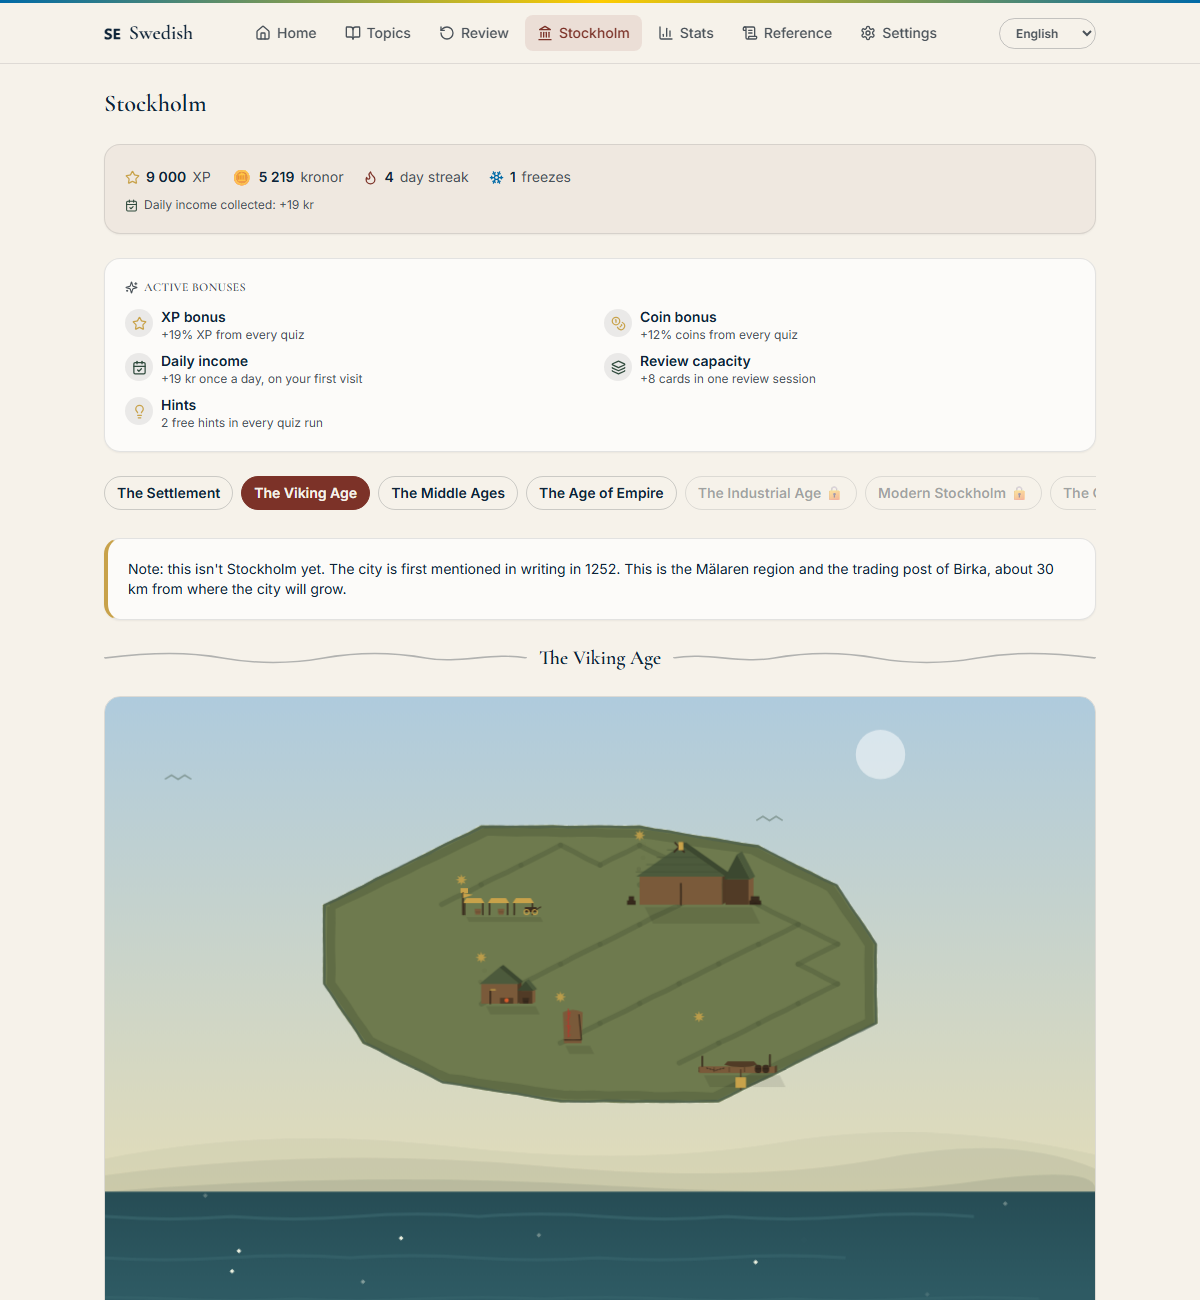
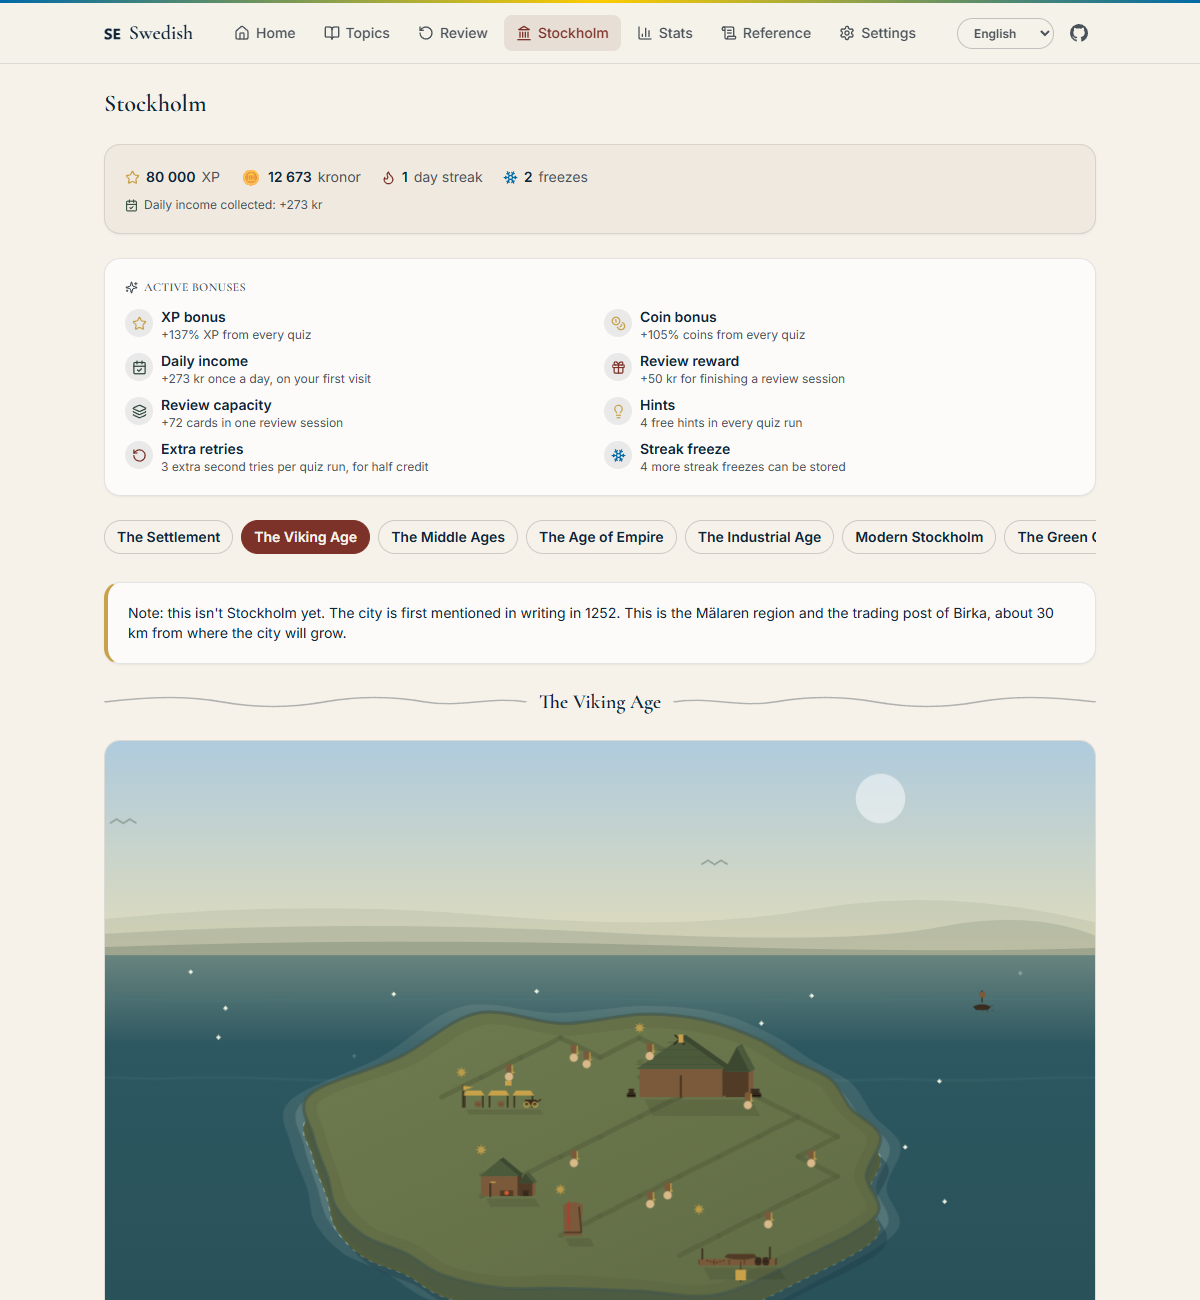
Era's screenshots

diff --git a/scripts/screenshots.ts b/scripts/screenshots.ts
@@ -1,0 +1,150 @@
+#!/usr/bin/env tsx
+/**
+ * Regenerates `docs/screenshots/` from the real app — `npm run screenshots`.
+ *
+ * The README's shots are documentation, so they have to come from the running app rather than
+ * from a hand-built SVG: what ships is what is pictured. The script boots the Vite dev server,
+ * seeds one throwaway save into `localStorage` (every era unlocked, every building at its level
+ * cap, so each era's island is shown finished), drives the page with the already-installed
+ * Chrome via playwright-core, and writes one PNG per era plus the page-level city shot.
+ *
+ * Nothing here touches a real save: the browser profile is a fresh temporary one every run.
+ */
+import { spawn } from 'node:child_process';
+import { mkdirSync, readFileSync } from 'node:fs';
+import { dirname, join } from 'node:path';
+import { fileURLToPath } from 'node:url';
+import { chromium, type Page } from 'playwright-core';
+import { BUILDING_PRICES, ERA_UNLOCK_XP } from '../src/city/economy';
+
+/**
+ * `npm run screenshots` does everything; `-- city` or `-- eras` redoes only that half, which
+ * matters because the citizens are mid-walk in every shot — re-running the whole set rewrites
+ * ten PNGs that differ only in where the little figures happen to be standing.
+ */
+const only = process.argv[2] as 'city' | 'eras' | undefined;
+
+const root = join(dirname(fileURLToPath(import.meta.url)), '..');
+const outDir = join(root, 'docs', 'screenshots');
+const PORT = 5199;
+const BASE = `http://localhost:${PORT}`;
+/** README shots are 1200 wide at DPR 1 — keep every new one in that family. */
+const VIEWPORT = { width: 1200, height: 1300 };
+
+interface EraRecord {
+  id: string;
+  order: number;
+  name: { sv: string; ru: string; en: string };
+}
+
+const eras: EraRecord[] = JSON.parse(readFileSync(join(root, 'content/city/eras.json'), 'utf8')).eras;
+const buildings: { id: string }[] = JSON.parse(
+  readFileSync(join(root, 'content/city/buildings.json'), 'utf8'),
+).buildings;
+
+/**
+ * A finished city: every building at its cap, and enough XP to have unlocked the last era.
+ * The wallet numbers are cosmetic — they only ever show up in the header bar of the shot.
+ */
+function demoSave() {
+  const builtAt = '2025-01-01T09:00:00.000Z';
+  const city: Record<string, { level: number; builtAt: string }> = {};
+  for (const b of buildings) {
+    const price = BUILDING_PRICES[b.id];
+    if (!price) throw new Error(`screenshots: building "${b.id}" has no price entry`);
+    city[b.id] = { level: price.maxLevel, builtAt };
+  }
+  return {
+    version: 1,
+    createdAt: builtAt,
+    language: 'en',
+    wallet: { xp: Math.max(...Object.values(ERA_UNLOCK_XP)) + 5_000, coins: 12_400 },
+    streak: { current: 12, longest: 21, lastActiveDate: null, freezesAvailable: 2 },
+    lessons: {},
+    items: {},
+    city: { buildings: city },
+    historyRead: [],
+    dialoguesRead: [],
+    dailyIncomeClaimedOn: null,
+    settings: { theme: 'light', sound: true, ttsRate: 0.95, ttsVoice: null, cityMotion: 'full' },
+  };
+}
+
+/** Boots `vite dev` and resolves once it is actually serving. */
+async function startServer() {
+  const server = spawn('npx', ['vite', '--port', String(PORT), '--strictPort'], {
+    cwd: root,
+    shell: process.platform === 'win32',
+    stdio: ['ignore', 'pipe', 'inherit'],
+  });
+  await new Promise<void>((resolve, reject) => {
+    const timer = setTimeout(() => reject(new Error('screenshots: vite did not start in 60s')), 60_000);
+    server.stdout.on('data', (chunk: Buffer) => {
+      if (chunk.toString().includes('ready in') || chunk.toString().includes(String(PORT))) {
+        clearTimeout(timer);
+        resolve();
+      }
+    });
+    server.on('exit', (code) => reject(new Error(`screenshots: vite exited with ${code}`)));
+  });
+  return server;
+}
+
+/** The scene mounts its era art from an async chunk and fades it in over 260 ms. */
+async function settle(page: Page) {
+  await page.waitForSelector('.city-scene svg');
+  await page.waitForTimeout(700);
+}
+
+async function main() {
+  mkdirSync(outDir, { recursive: true });
+  const server = await startServer();
+  const browser = await chromium.launch({ channel: 'chrome' });
+
+  try {
+    const page = await browser.newPage({ viewport: VIEWPORT, deviceScaleFactor: 1 });
+    // Seed on the app's own origin, then load the city route with the save already in place.
+    await page.goto(`${BASE}/`, { waitUntil: 'domcontentloaded' });
+    // zustand's persist wraps the save in { state, version } — seeding the bare save file
+    // would be read back as an empty one and every island would come out unbuilt.
+    await page.evaluate((stored) => {
+      localStorage.setItem('swedish-app', JSON.stringify(stored));
+    }, { state: demoSave(), version: 1 });
+
+    await page.goto(`${BASE}/#/city`, { waitUntil: 'networkidle' });
+    await settle(page);
+
+    for (const era of only === 'city' ? [] : [...eras].sort((a, b) => a.order - b.order)) {
+      await page.getByRole('button', { name: era.name.en, exact: true }).click();
+      await settle(page);
+      await page.locator('.city-scene').screenshot({ path: join(outDir, `city-${era.id}.png`) });
+      console.log(`wrote city-${era.id}.png`);
+    }
+
+    if (only !== 'eras') {
+      // The page-level shot the README leads with: the Viking era, wallet bar and era tabs in
+      // frame. Clicking a tab scrolls it into view, so the page has to be sent back to the top
+      // or the shot starts halfway down the bonus panel.
+      await page.getByRole('button', { name: 'The Viking Age', exact: true }).click();
+      await settle(page);
+      await page.evaluate(() => window.scrollTo(0, 0));
+      await page.waitForTimeout(200);
+      await page.screenshot({ path: join(outDir, 'city.png') });
+      console.log('wrote city.png');
+    }
+  } finally {
+    await browser.close();
+    // On Windows the dev server is a grandchild of the shell npx spawns, so killing the shell
+    // alone leaves vite holding the port and the next run fails to start.
+    if (process.platform === 'win32' && server.pid) {
+      spawn('taskkill', ['/pid', String(server.pid), '/t', '/f'], { stdio: 'ignore' });
+    } else {
+      server.kill();
+    }
+  }
+}
+
+main().catch((error) => {
+  console.error(error);
+  process.exit(1);
+});

diff --git a/src/components/layout/AppShell.tsx b/src/components/layout/AppShell.tsx
@@ -62,6 +62,21 @@ function LanguageToggle() {
   );
 }
 
+/**
+ * The GitHub mark, inlined rather than taken from `lucide-react`: its brand icons are
+ * deprecated upstream and due to be removed in v1.0. One path, `currentColor`, so it picks up
+ * the header's text colour in both themes exactly like the nav icons do.
+ */
+function GithubMark({ className }: { className?: string }) {
+  return (
+    <svg viewBox="0 0 16 16" width="18" height="18" fill="currentColor" aria-hidden="true" className={className}>
+      <path d="M8 0C3.58 0 0 3.58 0 8c0 3.54 2.29 6.53 5.47 7.59.4.07.55-.17.55-.38 0-.19-.01-.82-.01-1.49-2.01.37-2.53-.49-2.69-.94-.09-.23-.48-.94-.82-1.13-.28-.15-.68-.52-.01-.53.63-.01 1.08.58 1.23.82.72 1.21 1.87.87 2.33.66.07-.52.28-.87.51-1.07-1.78-.2-3.64-.89-3.64-3.95 0-.87.31-1.59.82-2.15-.08-.2-.36-1.02.08-2.12 0 0 .67-.21 2.2.82.64-.18 1.32-.27 2-.27s1.36.09 2 .27c1.53-1.04 2.2-.82 2.2-.82.44 1.1.16 1.92.08 2.12.51.56.82 1.27.82 2.15 0 3.07-1.87 3.75-3.65 3.95.29.25.54.73.54 1.48 0 1.07-.01 1.93-.01 2.2 0 .21.15.46.55.38A8.01 8.01 0 0 0 16 8c0-4.42-3.58-8-8-8Z" />
+    </svg>
+  );
+}
+
+const REPO_URL = 'https://github.com/gray0072/swedish';
+
 const navItems = [
   { to: '/', icon: Home, key: 'nav.home' as const, end: true },
   { to: '/tracks', icon: BookOpen, key: 'nav.tracks' as const, end: false },
@@ -118,7 +133,19 @@ export default function AppShell() {
               </NavLink>
             ))}
           </nav>
-          <LanguageToggle />
+          <div className="flex items-center gap-2">
+            <LanguageToggle />
+            <a
+              href={REPO_URL}
+              target="_blank"
+              rel="noreferrer"
+              aria-label={t('nav.repo')}
+              title={t('nav.repo')}
+              className="rounded-lg p-2 text-granite transition-colors hover:bg-granite/10 hover:text-falu dark:text-birch/70 dark:hover:bg-white/10 dark:hover:text-gold"
+            >
+              <GithubMark />
+            </a>
+          </div>
         </div>
         <nav className="flex justify-between border-t border-granite/10 sm:hidden">
           {navItems

diff --git a/vite.config.ts b/vite.config.ts
@@ -58,5 +58,8 @@ export default defineConfig({
     environment: 'jsdom',
     globals: true,
     setupFiles: ['./tests/setup.ts'],
+    // Scratch git worktrees under .kilo/ hold their own copy of tests/, which vitest would
+    // otherwise collect and run against this checkout's src — stale copies then "fail".
+    exclude: ['**/node_modules/**', '**/dist/**', '.kilo/**'],
   },
 });

diff --git a/CHANGELOG_ru.md b/CHANGELOG_ru.md
@@ -656,3 +656,30 @@ SFI kurs A → B → C → D  →  SVA grund delkurs 1 → 2 → 3 → 4  →  S
   различаются, поэтому уточнены только их строки. На каждом уровне по-прежнему ровно 50
   пунктов, и проверка подтверждает: все 262 написанных урока по-прежнему упомянуты, ничего
   не повисло.
+
+---
+
+## 2026-09-20 — Остров вернули в воду, а скриншоты стали сниматься с самого приложения
+
+- **Композиция городской сцены была сломана и теперь исправлена.** Вода была полосой в
+  нижней трети кадра (`y = 600…900`), а остров жил на `y ≈ 156…492` — то есть висел в небе
+  над отдельным озером. Теперь всей картинкой правит одна линия горизонта,
+  `WATER_LINE = 260` в `iso.ts`: небо над ней, одна сплошная вода от неё до нижнего края и
+  остров (`ORIGIN.y` сдвинут с 300 на 480) посреди этой воды. Небо, горизонт, вода и
+  маршруты лодок считаются от этого одного числа.
+- **Остров стал читаться как суша.** Его контуром была выпуклая оболочка проходимых клеток —
+  жёсткий десятиугольник; теперь это та же оболочка с посеянным дрожанием по вершинам,
+  замкнутая сплайном Catmull-Rom. И у него появилась толщина: тень на воде, каменное
+  основание со сдвигом вниз на `ISLAND_DEPTH = 26`, поверхность сверху и кольцо отмели
+  вокруг.
+- **У воды появилась глубина.** Дымка у дальнего края, тёмный тон, сгущающийся к зрителю, и
+  ряды волн, растущие от мелкой ряби у горизонта до самых крупных на переднем плане.
+  Прокрутка волн вдобавок дёргалась каждый цикл — сдвиг был на 400 единиц при периоде волны
+  600; теперь сдвиг равен ровно одному периоду.
+- **Лодки перенесены в дальнюю воду**, где они проходят за островом, вместо пустого переднего
+  плана, на котором остров их просто съедал бы.
+- **`npm run screenshots`** (`scripts/screenshots.ts`) пересобирает `docs/screenshots/` из
+  работающего приложения: поднимает dev-сервер, подкладывает одноразовое сохранение со всеми
+  открытыми эпохами и всеми зданиями на максимуме и управляет установленным Chrome через
+  `playwright-core`. Скриншот города для README переснят так же, и добавлено десять новых —
+  по одному на эпоху, каждая показана достроенной.

diff --git a/CHANGELOG.md b/CHANGELOG.md
@@ -654,3 +654,29 @@ SFI kurs A → B → C → D  →  SVA grund delkurs 1 → 2 → 3 → 4  →  S
   two proofreading lessons, the referat chain) turned out to differ in content, so only
   their lines were sharpened to say how. Every level still holds exactly 50 items, and a
   check confirms all 262 written lessons are still referenced and nothing dangles.
+
+---
+
+## 2026-09-20 — The island put back in the water, and screenshots generated from the app
+
+- **The city scene's framing was broken and is now fixed.** The water was a strip across the
+  bottom third of the frame (`y = 600…900`) while the island lived at `y ≈ 156…492`, so the
+  island hung in the sky above a detached lake. One waterline, `WATER_LINE = 260` in `iso.ts`,
+  now governs the whole picture: sky above it, one unbroken body of water from it to the
+  bottom edge, and the island (`ORIGIN.y` moved 300 → 480) sitting in the middle of that
+  water. Sky, horizon, water and the boat routes all derive from that one number.
+- **The island reads as land now.** Its outline was the walkable set's convex hull — a hard
+  decagon; it is now that hull with per-vertex seeded jitter, closed with a Catmull-Rom
+  spline. It also has thickness: a shadow cast on the lake, a rock slab extruded down by
+  `ISLAND_DEPTH = 26`, the grass surface on top, and a shallows ring in the water around it.
+- **Water gained depth.** Distance haze at the far edge, a deep tone gathering toward the
+  viewer, and wave rows that grow from fine ripples at the horizon to the largest in the
+  foreground. The wave scroll was also jumping every cycle — it shifted 400 units against a
+  600-unit wave period; it now shifts exactly one period.
+- **Boats moved to the far water**, where they pass behind the island instead of sailing
+  through empty foreground that the island would have swallowed.
+- **`npm run screenshots`** (`scripts/screenshots.ts`) regenerates `docs/screenshots/` from
+  the running app: it boots the dev server, seeds a throwaway save with every era unlocked
+  and every building at its cap, and drives the installed Chrome through `playwright-core`.
+  The README's city shot was redone this way, and ten new ones added — one per era, each
+  showing that era finished.

diff --git a/README.md b/README.md
@@ -22,6 +22,24 @@ version.
 |---|---|---|
 | ![Tracks and levels list](docs/screenshots/tracks.png) | ![A quiz question with a typed answer](docs/screenshots/quiz.png) | ![The isometric city scene, Viking era](docs/screenshots/city.png) |
 
+### The ten eras
+
+One island, ten ages. Each shot is that era with every one of its buildings finished — what
+the map looks like just before the next era opens. The first six are real history; the last
+four are informed guesses ([SPEC.md](SPEC.md) §12.8).
+
+| | | |
+|---|---|---|
+| ![The Settlement](docs/screenshots/city-tribe.png)<br>**1. The Settlement** | ![The Viking Age](docs/screenshots/city-viking.png)<br>**2. The Viking Age** | ![The Middle Ages](docs/screenshots/city-medieval.png)<br>**3. The Middle Ages** |
+| ![The Age of Empire](docs/screenshots/city-empire.png)<br>**4. The Age of Empire** | ![The Industrial Age](docs/screenshots/city-industrial.png)<br>**5. The Industrial Age** | ![Modern Stockholm](docs/screenshots/city-modern.png)<br>**6. Modern Stockholm** |
+| ![The Green City](docs/screenshots/city-green.png)<br>**7. The Green City** | ![The Connected City](docs/screenshots/city-connected.png)<br>**8. The Connected City** | ![The Floating City](docs/screenshots/city-floating.png)<br>**9. The Floating City** |
+| ![The Star City](docs/screenshots/city-stellar.png)<br>**10. The Star City** | | |
+
+All of these are generated from the running app by `npm run screenshots`
+([scripts/screenshots.ts](scripts/screenshots.ts)) — it boots the dev server, seeds a
+throwaway finished save, and drives your installed Chrome. Add `-- city` or `-- eras` to
+redo only that half. Re-run it whenever the scene changes; never touch the PNGs by hand.
+
 ## Features
 
 | Feature | Description |
